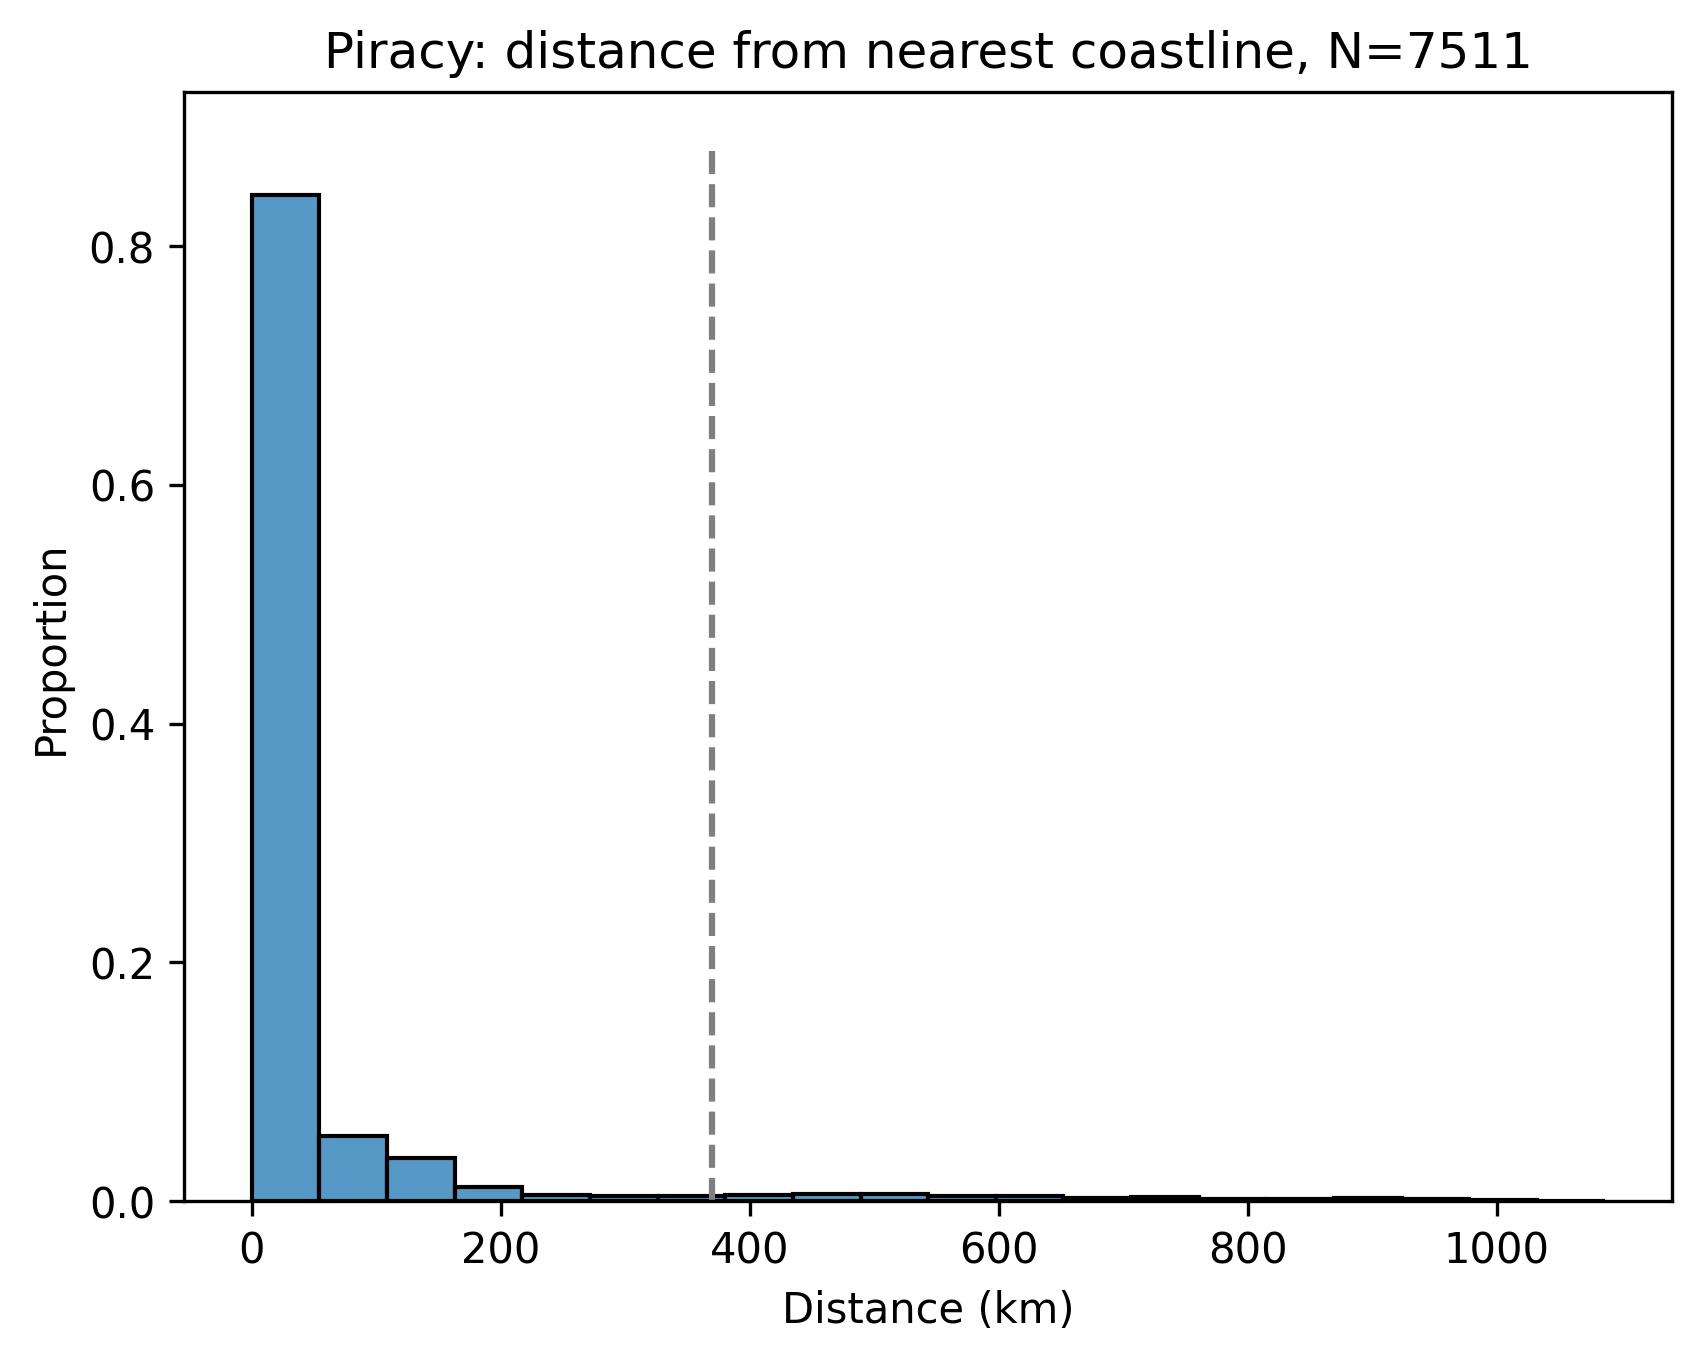
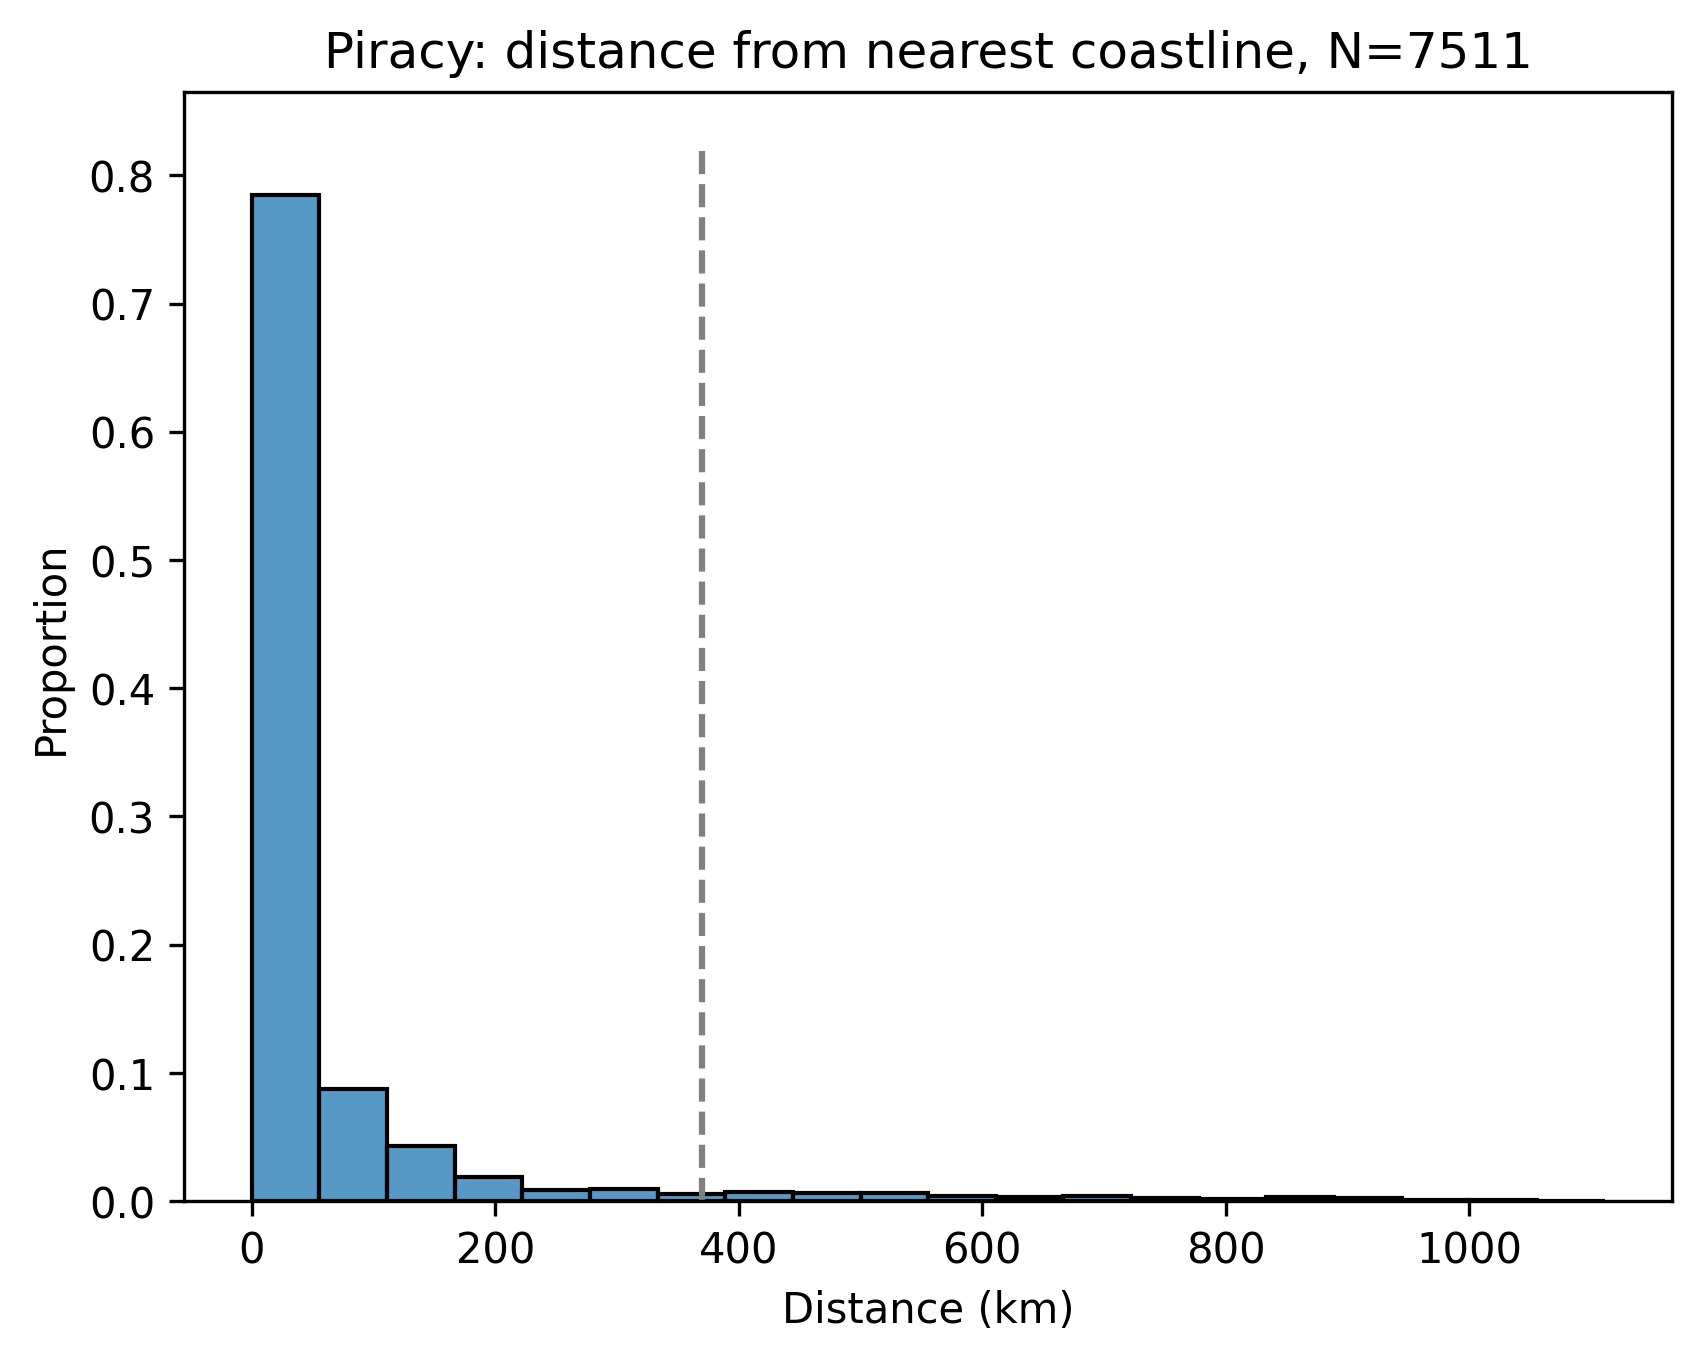
.

diff --git a/compute_results.py b/compute_results.py
@@ -194,7 +194,7 @@ def compute_min_dist_from_coast(pirate_data_path, draw_hist=False):
             dist = geodesic((nearest_point_y, nearest_point_x), (target_point[1], target_point[0])).kilometers # geodesic needs order of (lat,lon), output in km
             min_help.append(dist)
         
-        help[i] = np.min(min_help)
+        help[j] = np.min(min_help)
         print("......", round(np.min(min_help),3))
 
     gdf_piracy['min_distance'] = help
